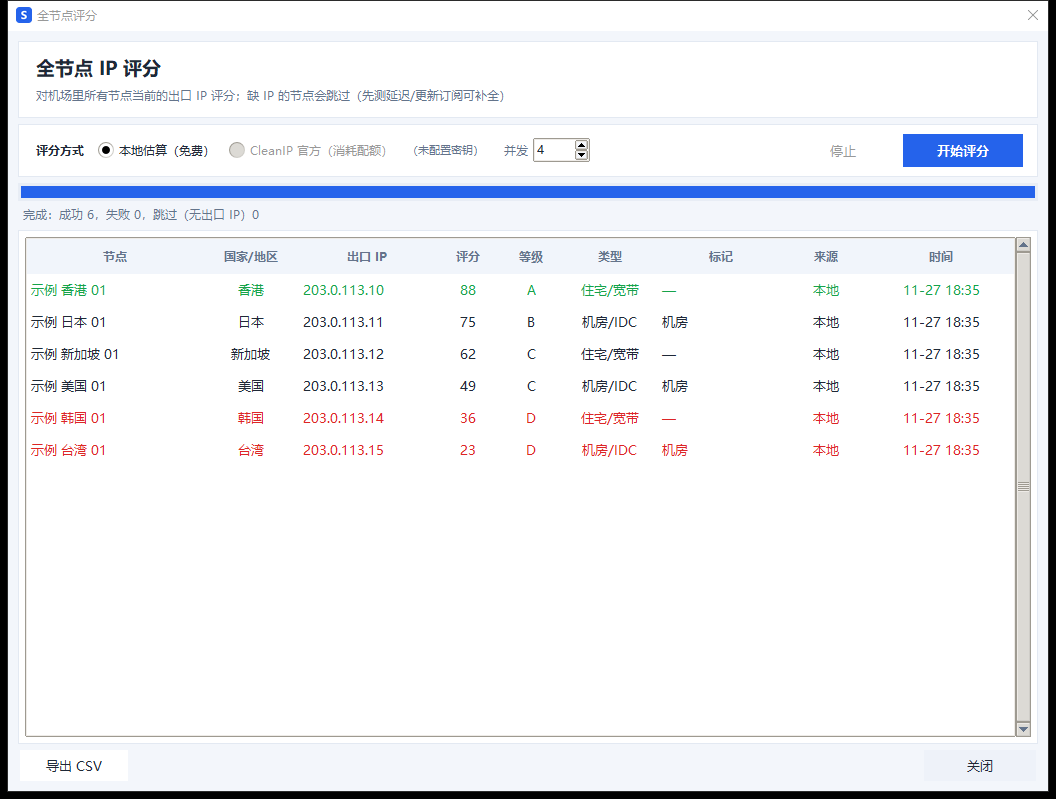
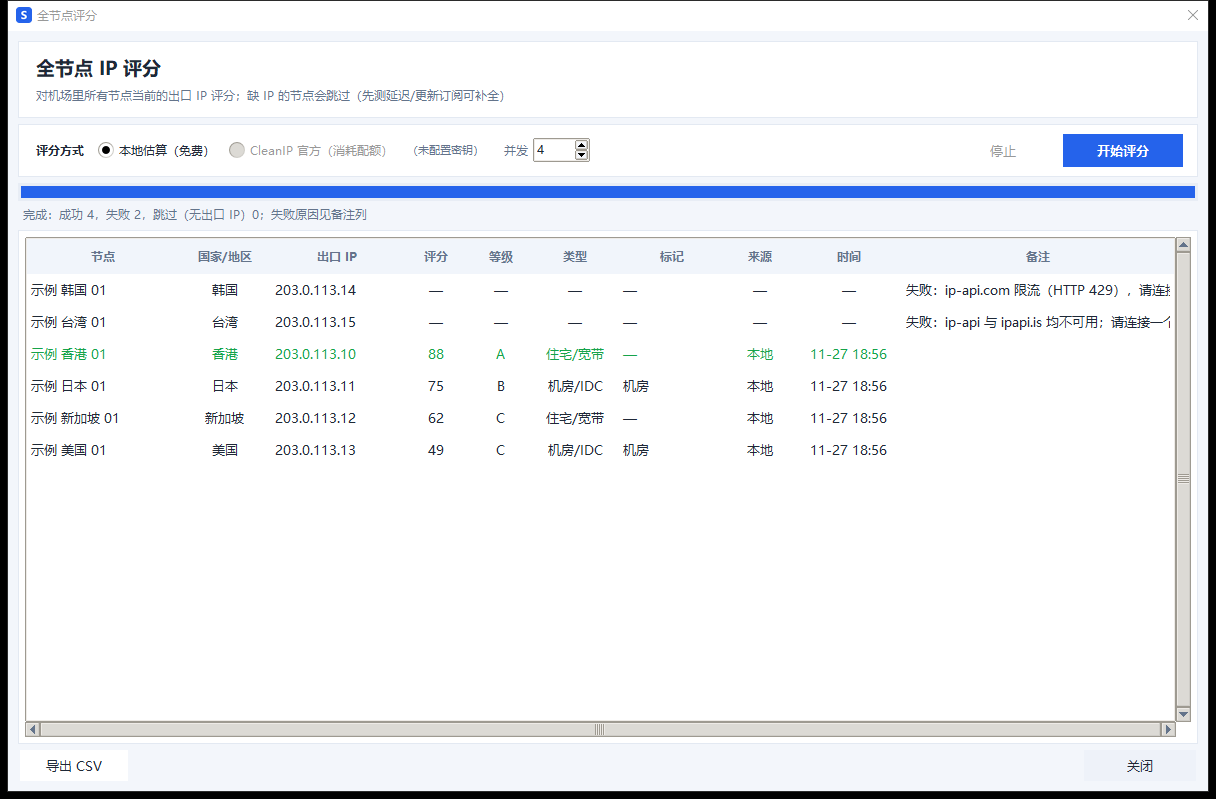
fix: 批量评分失败原因（数据源限流/非 JSON/未连接）与节流重试，汇总表增加备注列；feat: 未连接时预检提示

diff --git a/steadylink.py b/steadylink.py
@@ -1929,7 +1929,7 @@ class ScoringDialog(tk.Toplevel):
         super().__init__(app.root)
         self.app = app
         self.title('全节点评分')
-        self.geometry('1040x760')
+        self.geometry('1200x760')
         self.configure(bg=BG)
         self.transient(app.root)
         self.stop = threading.Event()
@@ -1989,19 +1989,23 @@ class ScoringDialog(tk.Toplevel):
         wrap.pack(fill='both', expand=True, padx=10, pady=(0, 6))
         inner = tk.Frame(wrap, bg=CARD, padx=6, pady=6)
         inner.pack(fill='both', expand=True)
-        cols = ('remark', 'country', 'ip', 'score', 'grade', 'type', 'flags', 'source', 'time')
+        cols = ('remark', 'country', 'ip', 'score', 'grade', 'type', 'flags',
+                'source', 'time', 'note')
         heads = {'remark': '节点', 'country': '国家/地区', 'ip': '出口 IP', 'score': '评分',
-                 'grade': '等级', 'type': '类型', 'flags': '标记', 'source': '来源', 'time': '时间'}
-        widths = {'remark': 170, 'country': 90, 'ip': 130, 'score': 60, 'grade': 55,
-                  'type': 90, 'flags': 120, 'source': 80, 'time': 140}
+                 'grade': '等级', 'type': '类型', 'flags': '标记', 'source': '来源',
+                 'time': '时间', 'note': '备注'}
+        widths = {'remark': 140, 'country': 80, 'ip': 120, 'score': 55, 'grade': 50,
+                  'type': 75, 'flags': 95, 'source': 60, 'time': 95, 'note': 260}
         self.tree = ttk.Treeview(inner, columns=cols, show='headings', selectmode='browse')
         for c in cols:
             self.tree.heading(c, text=heads[c], command=lambda c=c: self._sort(c))
             self.tree.column(c, width=widths[c], anchor='w' if c in ('remark', 'ip', 'flags') else 'center')
         vs = ttk.Scrollbar(inner, orient='vertical', command=self.tree.yview)
-        self.tree.configure(yscrollcommand=vs.set)
+        hs = ttk.Scrollbar(inner, orient='horizontal', command=self.tree.xview)
+        self.tree.configure(yscrollcommand=vs.set, xscrollcommand=hs.set)
         self.tree.grid(row=0, column=0, sticky='nsew')
         vs.grid(row=0, column=1, sticky='ns')
+        hs.grid(row=1, column=0, sticky='ew')
         inner.rowconfigure(0, weight=1)
         inner.columnconfigure(0, weight=1)
         self.tree.tag_configure('good', foreground=OKC)
@@ -2032,6 +2036,11 @@ class ScoringDialog(tk.Toplevel):
             if not messagebox.askyesno('全节点评分',
                                        f'官方评分会对 {len(targets)} 个不同 IP 计费，免费额度只有 20 个/天，'
                                        '超出会失败。继续？', parent=self):
+                return
+        if not self.app.core.running():
+            if not messagebox.askyesno('全节点评分',
+                                       '当前没有连接节点，评分将尝试直连；国内直连数据源可能失败。\n'
+                                       '建议先连接一个节点再评分。仍要继续吗？', parent=self):
                 return
         self.stop.clear()
         self.running = True
@@ -2087,10 +2096,12 @@ class ScoringDialog(tk.Toplevel):
         self.app.save()
         self.app.refresh()
         self._reload_rows()
-        self.status.set(
-            f"完成：成功 {stats.get('scored', 0)}，失败 {stats.get('failed', 0)}，"
-            f"跳过（无出口 IP）{stats.get('skipped', 0)}"
-            + ('（已停止）' if stats.get('stopped') else ''))
+        msg = (f"完成：成功 {stats.get('scored', 0)}，失败 {stats.get('failed', 0)}，"
+               f"跳过（无出口 IP）{stats.get('skipped', 0)}"
+               + ('（已停止）' if stats.get('stopped') else ''))
+        if stats.get('failed'):
+            msg += '；失败原因见备注列'
+        self.status.set(msg)
 
     # ---- 汇总表 ----
     def _reload_rows(self):
@@ -2121,12 +2132,13 @@ class ScoringDialog(tk.Toplevel):
                 tag = 'good' if (n.get('score') or 0) >= 81 else ('bad' if (n.get('score') or 100) < 46 else '')
             except Exception:
                 tag = ''
+            note = (n.get('score_note') or '')[:34]
             self.tree.insert('', 'end', values=(
                 n.get('remark', '')[:30], self.app.region_of(n), n.get('ip') or '—',
                 n.get('score') if n.get('score') is not None else '—',
                 n.get('grade') or '—', n.get('score_type') or '—', marks,
                 'CleanIP' if n.get('score_source') == 'cleanip' else ('本地' if n.get('score_source') else '—'),
-                tstr), tags=(tag,) if tag else ())
+                tstr, note), tags=(tag,) if tag else ())
 
     def _sort(self, col):
         if self.sort_col == col:
@@ -2257,9 +2269,11 @@ class DownloaderWindow(tk.Toplevel):
             self.tree.heading(c, text=heads[c])
             self.tree.column(c, width=widths[c], anchor='w' if c == 'name' else 'center')
         vs = ttk.Scrollbar(inner, orient='vertical', command=self.tree.yview)
-        self.tree.configure(yscrollcommand=vs.set)
+        hs = ttk.Scrollbar(inner, orient='horizontal', command=self.tree.xview)
+        self.tree.configure(yscrollcommand=vs.set, xscrollcommand=hs.set)
         self.tree.grid(row=0, column=0, sticky='nsew')
         vs.grid(row=0, column=1, sticky='ns')
+        hs.grid(row=1, column=0, sticky='ew')
         inner.rowconfigure(0, weight=1)
         inner.columnconfigure(0, weight=1)
         self.tree.tag_configure('ok', foreground=OKC)

diff --git a/ipscore.py b/ipscore.py
@@ -13,7 +13,9 @@ import concurrent.futures as cf
 import json
 import os
 import socket
+import threading
 import time
+import urllib.parse
 
 from cleanip import _curl
 
@@ -38,17 +40,41 @@ HOSTING_WORDS = (
 )
 
 
+_THROTTLE_LOCK = threading.Lock()
+_LAST_CALL = {}
+MIN_GAP = {'ip-api.com': 1.5, 'ipapi.is': 1.2}
+
+
+def _throttle(url):
+    """同一数据源限制调用频率，避免免费额度/速率限制导致批量评分全部失败。"""
+    host = urllib.parse.urlparse(url).hostname or ''
+    gap = MIN_GAP.get(host, 0.8)
+    with _THROTTLE_LOCK:
+        now = time.time()
+        slot = max(now, _LAST_CALL.get(host, 0.0) + gap)
+        _LAST_CALL[host] = slot
+    wait = slot - time.time()
+    if wait > 0:
+        time.sleep(wait)
+
+
 def _get_json(url, proxy, timeout=8, retries=2):
-    for _ in range(max(1, retries)):
+    """返回 (dict, error)。只接受 JSON 对象；字符串/HTML/429 都算失败并重试。"""
+    last_err = ''
+    for attempt in range(max(1, retries)):
+        _throttle(url)
         try:
             r = _curl(['--max-time', str(timeout), '-x', proxy, url] if proxy else
                       ['--max-time', str(timeout), url], timeout=timeout + 4)
-            data = json.loads(r.stdout or '{}')
-            if data:
-                return data
-        except Exception:
-            pass
-    return {}
+            raw = r.stdout or ''
+            data = json.loads(raw)
+            if isinstance(data, dict) and data:
+                return data, ''
+            last_err = f'响应不是 JSON 对象（{str(raw)[:60]}）'
+        except Exception as e:
+            last_err = str(e)[:100] or '请求失败'
+        time.sleep(1.2 * (attempt + 1))
+    return {}, last_err
 
 
 def _dnsbl_hits(ip):
@@ -71,19 +97,21 @@ def _dnsbl_hits(ip):
 def collect(ip, proxy=None):
     """采集免费来源的数据（每个来源失败不影响其它来源）。"""
     ev = {'ip': ip, 'sources': [], 'errors': []}
-    a = _get_json(f'http://ip-api.com/json/{ip}?fields=status,country,countryCode,regionName,'
-                  f'city,isp,org,as,asname,proxy,hosting,mobile,timezone,reverse', proxy)
+    a, a_err = _get_json(f'http://ip-api.com/json/{ip}?fields=status,country,countryCode,'
+                         f'regionName,city,isp,org,as,asname,proxy,hosting,mobile,timezone,reverse',
+                         proxy)
     if a.get('status') == 'success':
         ev['ipapi'] = a
         ev['sources'].append('ip-api')
     else:
-        ev['errors'].append('ip-api')
-    b = _get_json(f'https://ipapi.is/json/?q={ip}', proxy, timeout=10)
+        ev['errors'].append('ip-api' + (f': {a_err}' if a_err else
+                                        (f': {a.get("message")}' if a.get('message') else '')))
+    b, b_err = _get_json(f'https://ipapi.is/json/?q={ip}', proxy, timeout=10)
     if b:
         ev['ipapi_is'] = b
         ev['sources'].append('ipapi.is')
     else:
-        ev['errors'].append('ipapi.is')
+        ev['errors'].append('ipapi.is' + (f': {b_err}' if b_err else ''))
     try:
         reverse = socket.gethostbyaddr(ip)[0]
     except Exception:
@@ -180,7 +208,9 @@ def score(ev):
             'scenarios': {}, 'location': {}, 'network': {},
             'report_url': f'https://cleanip.io/{ev.get("ip", "")}',
             'coverage': '关键数据源不可用',
-            'note': 'ip-api 与 ipapi.is 均不可用，证据不足，暂不评分（可重试或配置 CleanIP 密钥）',
+            'note': '评分失败：ip-api 与 ipapi.is 均不可用'
+                    + (f'（{"; ".join((ev.get("errors") or [])[:2])}）' if ev.get('errors') else '')
+                    + '；请连接一个节点后重试，或配置 CleanIP 密钥',
             'raw': ev,
         }
     if not a0 or not b0:

diff --git a/tests/test_ipscore.py b/tests/test_ipscore.py
@@ -131,6 +131,32 @@ class ScoreTest(unittest.TestCase):
         r = ipscore.score(ev)
         self.assertLessEqual(r['score'], 70)
 
+    def test_get_json_rejects_non_object(self):
+        orig_curl = ipscore._curl
+        orig_throttle = ipscore._throttle
+        ipscore._throttle = lambda url: None
+        ipscore._curl = lambda args, timeout=0: type('R', (), {'stdout': '"Too Many Requests"'})()
+        try:
+            data, err = ipscore._get_json('http://ip-api.com/json/1.2.3.4', None, retries=1)
+            self.assertEqual(data, {})
+            self.assertIn('不是 JSON 对象', err)
+        finally:
+            ipscore._curl = orig_curl
+            ipscore._throttle = orig_throttle
+
+    def test_get_json_accepts_object(self):
+        orig_curl = ipscore._curl
+        orig_throttle = ipscore._throttle
+        ipscore._throttle = lambda url: None
+        ipscore._curl = lambda args, timeout=0: type('R', (), {'stdout': '{"status":"success"}'})()
+        try:
+            data, err = ipscore._get_json('http://ip-api.com/json/1.2.3.4', None, retries=1)
+            self.assertEqual(data, {'status': 'success'})
+            self.assertEqual(err, '')
+        finally:
+            ipscore._curl = orig_curl
+            ipscore._throttle = orig_throttle
+
     def test_score_never_negative(self):
         ev = base_ev(ipapi_is={'is_tor': True, 'is_abuser': True, 'is_proxy': True},
                      dnsbl=[{'zone': z, 'name': n} for z, n in ipscore.DNSBL])

diff --git a/scoring.py b/scoring.py
@@ -60,7 +60,16 @@ def score_nodes(nodes, official=False, key='', proxy=None, workers=4,
                     n['score_time'] = time.time()
                     scored += 1
                 else:
-                    n['score_note'] = r.get('error') or r.get('note') or '评分失败'
+                    reason = str(r.get('error') or r.get('note') or '未知原因')
+                    if '429' in reason or '限流' in reason:
+                        short = '数据源限流（HTTP 429），连接节点后重试'
+                    elif '不是 JSON' in reason:
+                        short = '数据源返回异常（非 JSON），稍后重试'
+                    elif '均不可用' in reason:
+                        short = '数据源不可用，请连接节点后重试'
+                    else:
+                        short = reason[:40]
+                    n['score_note'] = '失败：' + short
                     failed += 1
             if progress:
                 try:

diff --git a/tests/test_scoring.py b/tests/test_scoring.py
@@ -41,6 +41,7 @@ class BatchScoreTest(unittest.TestCase):
         self.assertEqual(nodes[0]['score'], 80)
         self.assertEqual(nodes[0]['grade'], 'B')
         self.assertEqual(nodes[0]['score_source'], 'local')
+        self.assertIn('失败', nodes[2].get('score_note', ''))
         self.assertIn('quota', nodes[2].get('score_note', ''))
         self.assertIsNone(nodes[1].get('score'))
 

diff --git a/使用说明.md b/使用说明.md
@@ -51,7 +51,7 @@ Windows 打开低完整性脚本就会弹“无法验证发布者”。已把整
 
 ## 一键全节点评分
 
-列表右上角 **⭐ 全节点评分**：选择「本地估算」（免费）或「CleanIP 官方」（消耗配额），并发评分后显示汇总表；缺 IP 的节点会被跳过。汇总表可点表头排序、导出 CSV；评分结果会写回节点，主列表「评分」列显示「分数 等级」，筛选行「排序」可按评分/国家/延迟/名称排序。
+列表右上角 **⭐ 全节点评分**：选择「本地估算」（免费）或「CleanIP 官方」（消耗配额），并发评分后显示汇总表；缺 IP 的节点会被跳过。失败原因写在「备注」列（未连接节点 / 数据源限流 / 返回异常）；28 个节点约 1–2 分钟。汇总表可点表头排序、导出 CSV；评分结果会写回节点，主列表「评分」列显示「分数 等级」，筛选行「排序」可按评分/国家/延迟/名称排序。
 
 ## IP 纯净度评分（IP 体检）
 

diff --git a/README.md b/README.md
@@ -105,6 +105,7 @@ python steadylink.py
 - 缺出口 IP 的节点会跳过（先「测延迟(全部)」或「更新订阅」可补全）；
 - 完成后弹出汇总表（节点 / 国家 / 出口 IP / 评分 / 等级 / 类型 / 标记 / 来源 / 时间），点表头可排序，可导出 CSV；
 - 结果会写回节点（`score`、`grade`、`score_source`…），主列表新增「评分」列；
+- 批量评分失败会在**备注列**写明原因（常见：未连接节点、数据源限流 429、返回异常）；同源请求有节流与重试，28 个节点约 1–2 分钟；
 - 筛选行新增 **排序**：延迟 / 评分 / 国家 / 名称 / 出口 IP，也可直接点表头切换。
 
 ![全节点评分](docs/screenshots/scoring.png)
